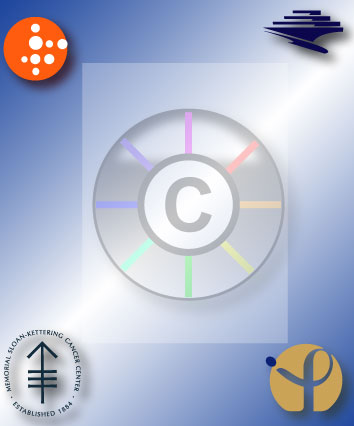
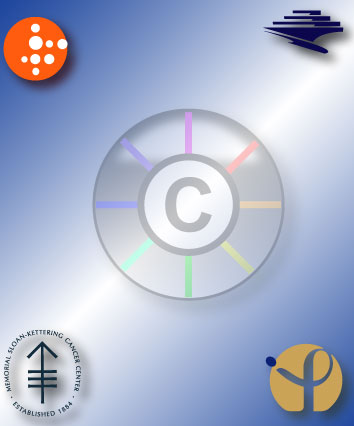
Final Credits stuff.

Changed region(s): [[0.2175, 0.1221, 0.5282, 0.3967], [0.6215, 0.6408, 0.839, 0.8239]]

diff --git a/src/cytoscape/util/CreditScreen.java b/src/cytoscape/util/CreditScreen.java
@@ -71,7 +71,8 @@ public abstract class CreditScreen  {
 
     PClip credit_clip = new PClip();
     credit_clip.setStrokePaint( null );
-    credit_clip.setPathToRectangle( 80, 60, 230, 300 );
+    credit_clip.setPaint( new java.awt.Color( 0, 0, 0, .1f ) );
+    credit_clip.setPathToRectangle( 80, 60, 230, 280 );
     layer.addChild( credit_clip );
 
     final PNode credits = new PText( lines );
@@ -82,6 +83,7 @@ public abstract class CreditScreen  {
 //       System.out.println( "Add credit :" +lines[i] );
 //     }
     credit_clip.addChild( credits );
+    
     //layer.addChild( credits );
 
     PBounds clip_bounds = credit_clip.getBounds();
